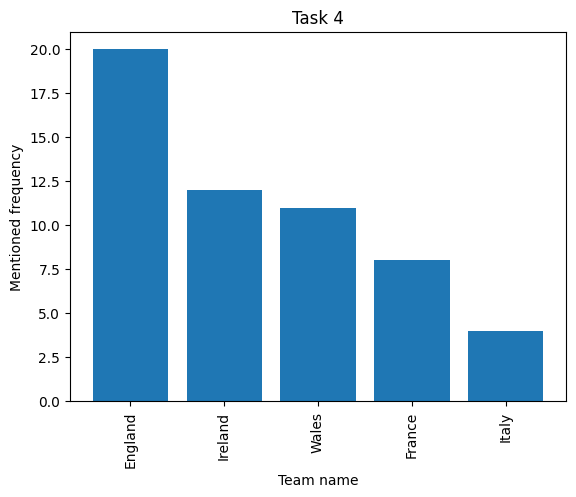
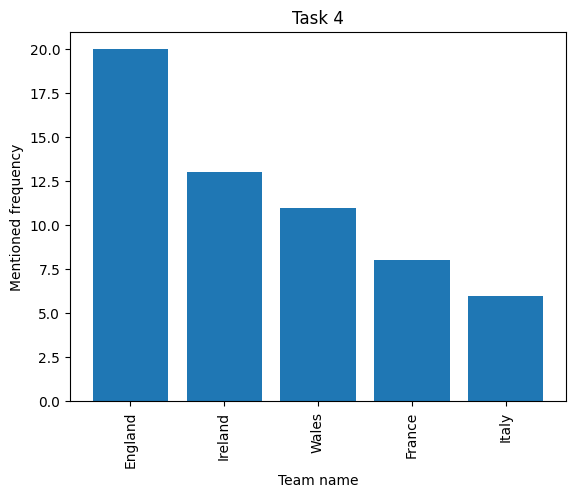
2

Changed region(s): [[0.8125, 0.5734, 0.9688, 0.664], [0.3125, 0.332, 0.4688, 0.3924]]

diff --git a/main.py b/main.py
@@ -23,7 +23,7 @@ rugby = json.load(rugby_file)
 team_name = []
 for team in rugby.get("teams"):
     team_name.append(team.get('name'))
-score_pattern = re.compile(r'(\s\d{1,3}[\-]\d{1,3}\s)')
+score_pattern = re.compile(r'(\s\d{1,3}[\-]\d{1,3})')
 # ================ Task 3 setup ================ #
 task3 = open("task3.csv", 'w', newline='')
 task3_writer = csv.writer(task3)
@@ -123,13 +123,13 @@ while to_visit:
 
     pages_visited = pages_visited + 1
 
-#game_difference_list = []
+# calculate average game score difference
 for team in game_difference:
     avg_dif = game_difference[team][0] / game_difference[team][1]
     task3_writer.writerow([team, avg_dif])
     game_difference[team] = avg_dif
 
-
+# Task 4 plot
 mention_freq_series = pd.Series(mention_freq)
 frequency_data = pd.DataFrame({'frequency': mention_freq_series})
 frequency_data = frequency_data.sort_values(by='frequency', ascending=False).head(5)
@@ -140,10 +140,9 @@ plt.ylabel('Mentioned frequency')
 plt.title("Task 4")
 plt.savefig("task4.png", bbox_inches='tight')
 plt.clf()
-
+# Task 5 plot
 game_difference_series = pd.Series(game_difference)
 frequency_score_data = pd.DataFrame({'frequency':mention_freq_series , 'score difference':game_difference_series})
-print(frequency_score_data)
 plt.scatter(frequency_score_data['frequency'], frequency_score_data['score difference'])
 plt.xlabel('Mentioned frequency')
 plt.ylabel('fame_difference')
@@ -151,4 +150,3 @@ plt.title("Task 5")
 plt.savefig("task5.png", bbox_inches='tight')
 
 print('\nvisited {0:5d} pages; {1:5d} pages in to_visit'.format(len(visited), len(to_visit)))
-# print('{0:1d}'.format(pages_visited))
